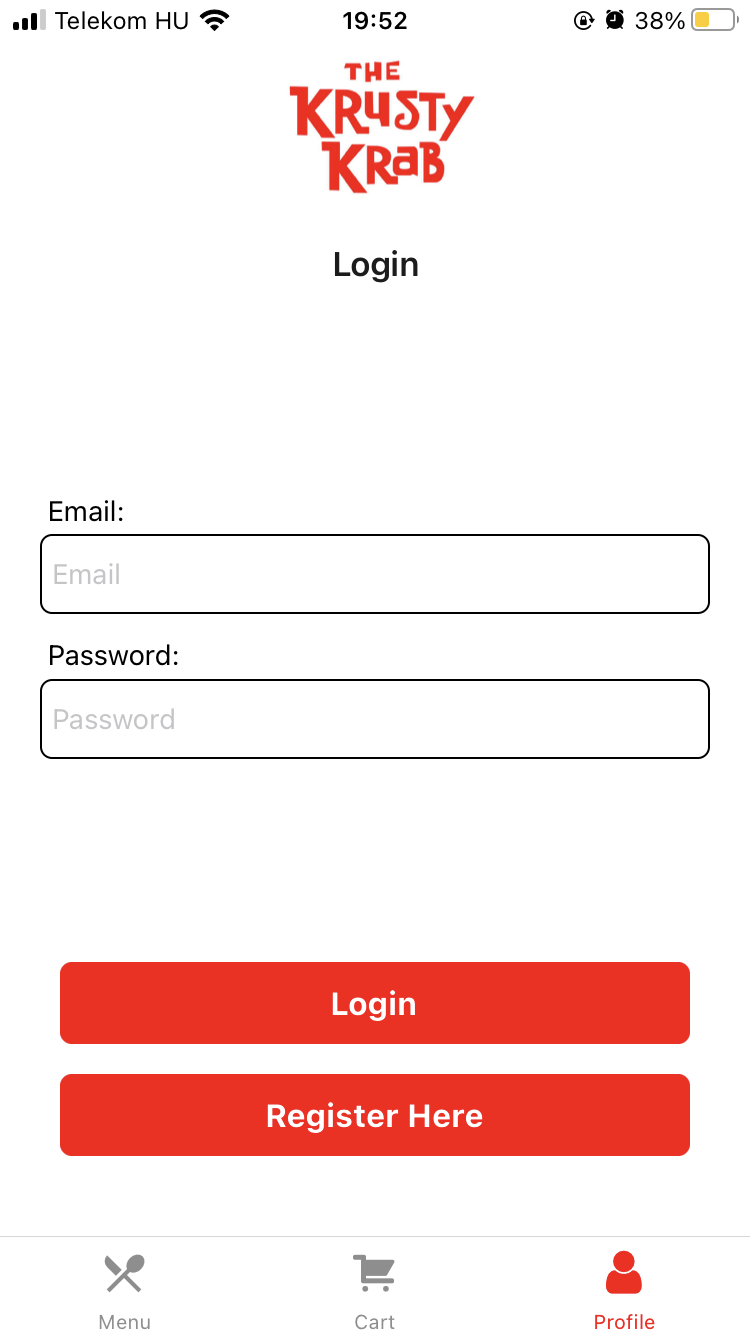
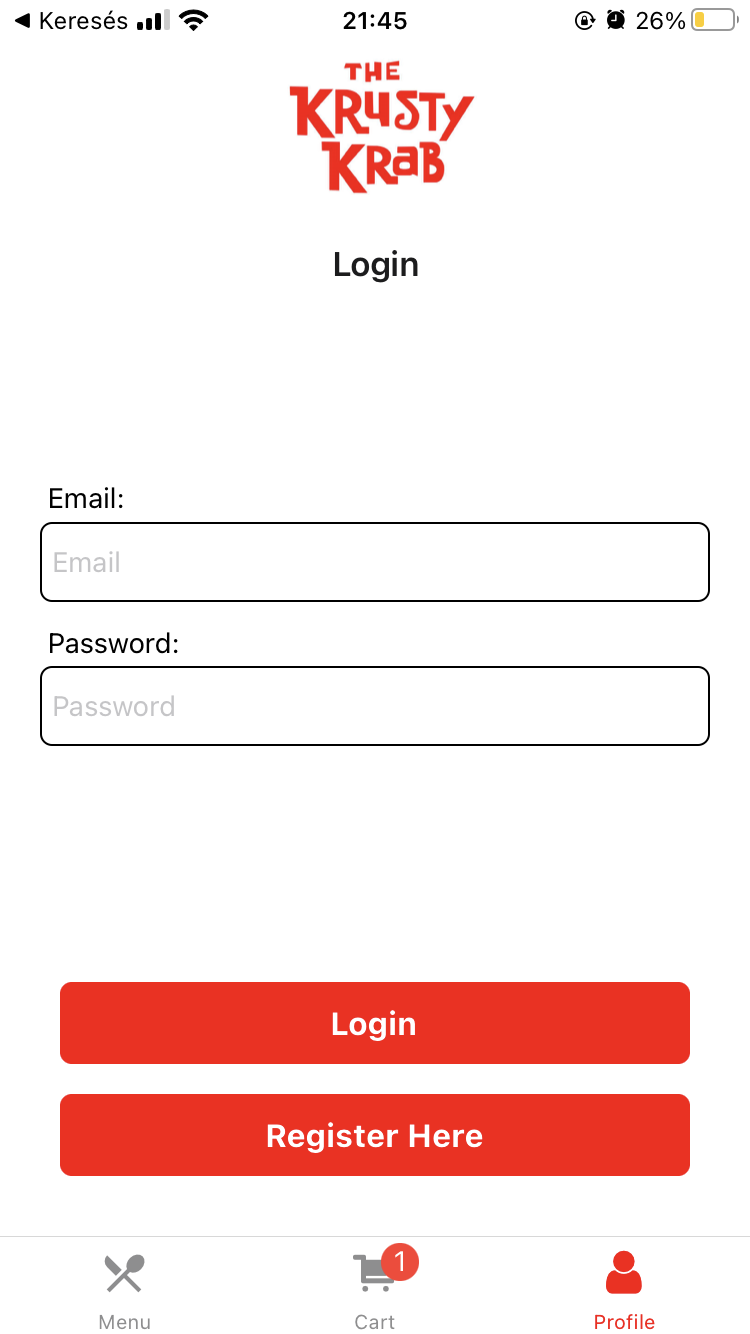
update login, register style

diff --git a/src/screens/Auth/Login.js b/src/screens/Auth/Login.js
@@ -52,31 +52,36 @@ export default function LoginScreen({ navigation }) {
           onSubmitEditing={handleLogin}
         />
       </View>
-
-      <Pressable
-        style={{ ...styles.button, paddingVertical: 10, marginHorizontal: 30 }}
-        onPress={handleLogin}
-      >
-        <Text style={styles.buttonText}>Login</Text>
-      </Pressable>
-      <Pressable
-        style={{
-          ...styles.button,
-          paddingVertical: 10,
-          paddingHorizontal: 20,
-          marginTop: 15,
-          marginBottom: 40,
-          marginHorizontal: 30,
-        }}
-        onPress={() => {
-          setEmail("");
-          setError("");
-          setPassword("");
-          navigation.navigate("RegisterScreen");
-        }}
-      >
-        <Text style={styles.buttonText}>Register Here</Text>
-      </Pressable>
+      <View style={{minHeight:150, justifyContent:"flex-end"}}>
+        <Pressable
+          style={{
+            ...styles.button,
+            paddingVertical: 10,
+            marginHorizontal: 30,
+          }}
+          onPress={handleLogin}
+        >
+          <Text style={styles.buttonText}>Login</Text>
+        </Pressable>
+        <Pressable
+          style={{
+            ...styles.button,
+            paddingVertical: 10,
+            paddingHorizontal: 20,
+            marginTop: 15,
+            marginBottom: 30,
+            marginHorizontal: 30,
+          }}
+          onPress={() => {
+            setEmail("");
+            setError("");
+            setPassword("");
+            navigation.navigate("RegisterScreen");
+          }}
+        >
+          <Text style={styles.buttonText}>Register Here</Text>
+        </Pressable>
+      </View>
     </View>
   );
 }

diff --git a/src/screens/Auth/Register.js b/src/screens/Auth/Register.js
@@ -52,19 +52,20 @@ export default function RegisterScreen({ navigation }) {
           secureTextEntry
         />
       </View>
-
-      <Pressable
-        style={{
-          ...styles.button,
-          paddingVertical: 10,
-          paddingHorizontal: 20,
-          marginBottom: 40,
-          marginHorizontal: 30,
-        }}
-        onPress={handleRegister}
-      >
-        <Text style={styles.buttonText}>Register</Text>
-      </Pressable>
+      <View style={{ minHeight: 150, justifyContent: "flex-end" }}>
+        <Pressable
+          style={{
+            ...styles.button,
+            paddingVertical: 10,
+            paddingHorizontal: 20,
+            marginBottom: 30,
+            marginHorizontal: 30,
+          }}
+          onPress={handleRegister}
+        >
+          <Text style={styles.buttonText}>Register</Text>
+        </Pressable>
+      </View>
     </View>
   );
 }
